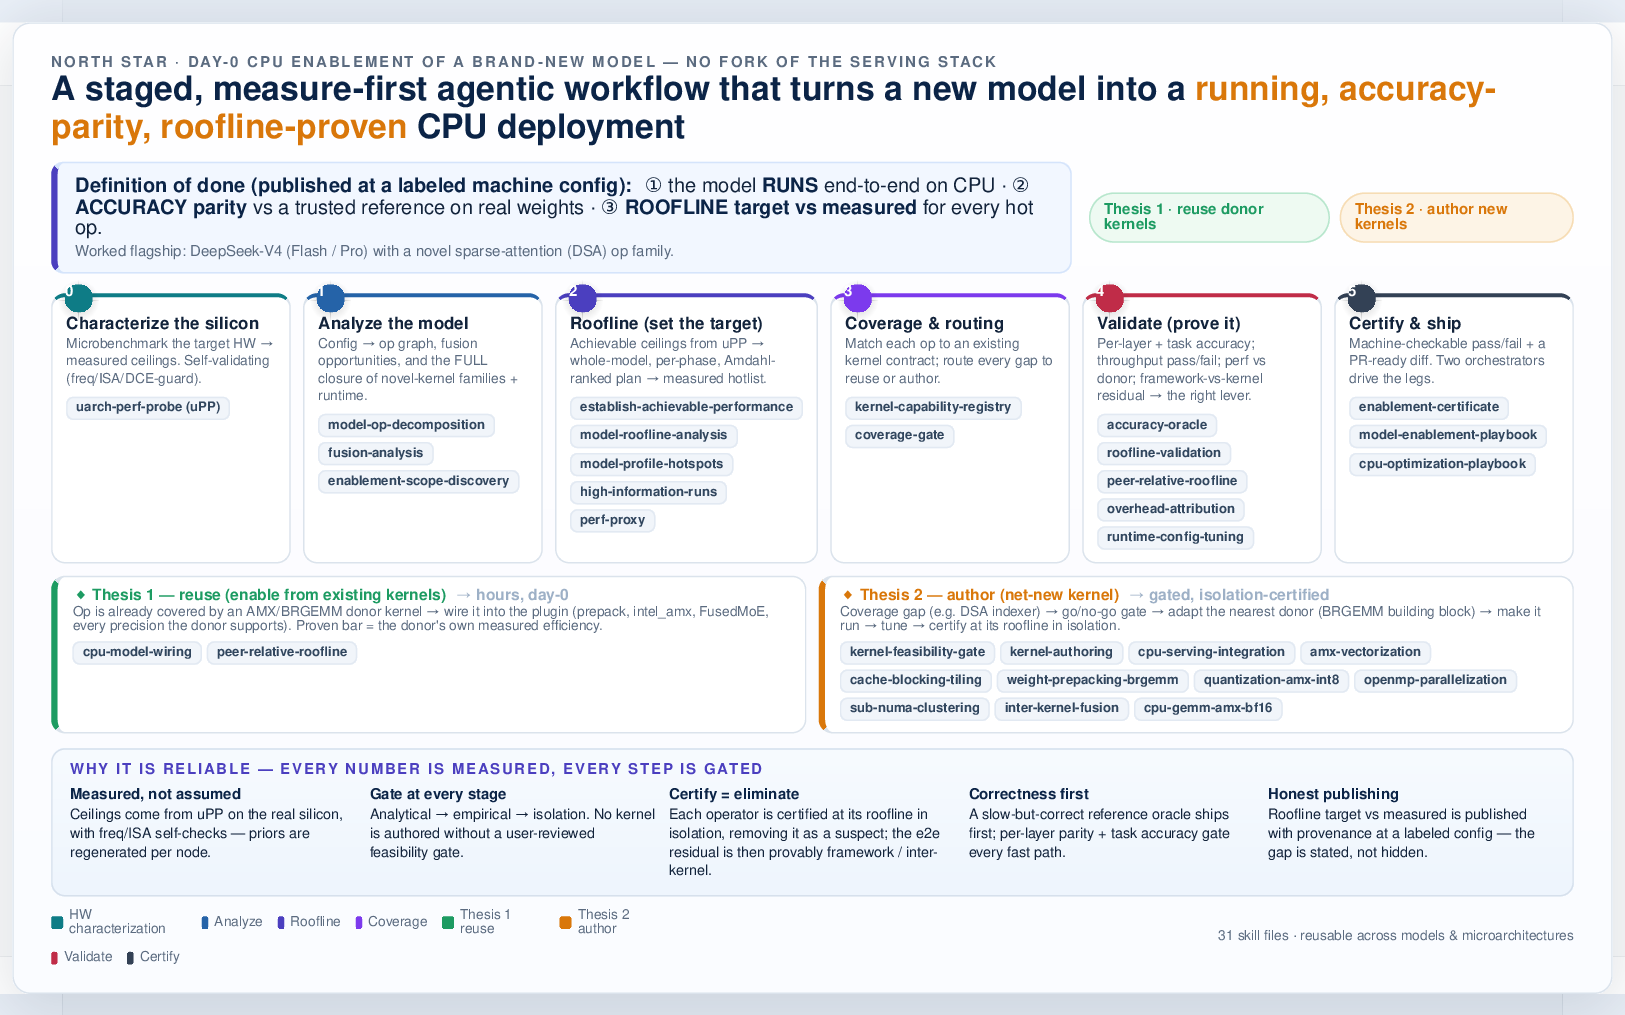
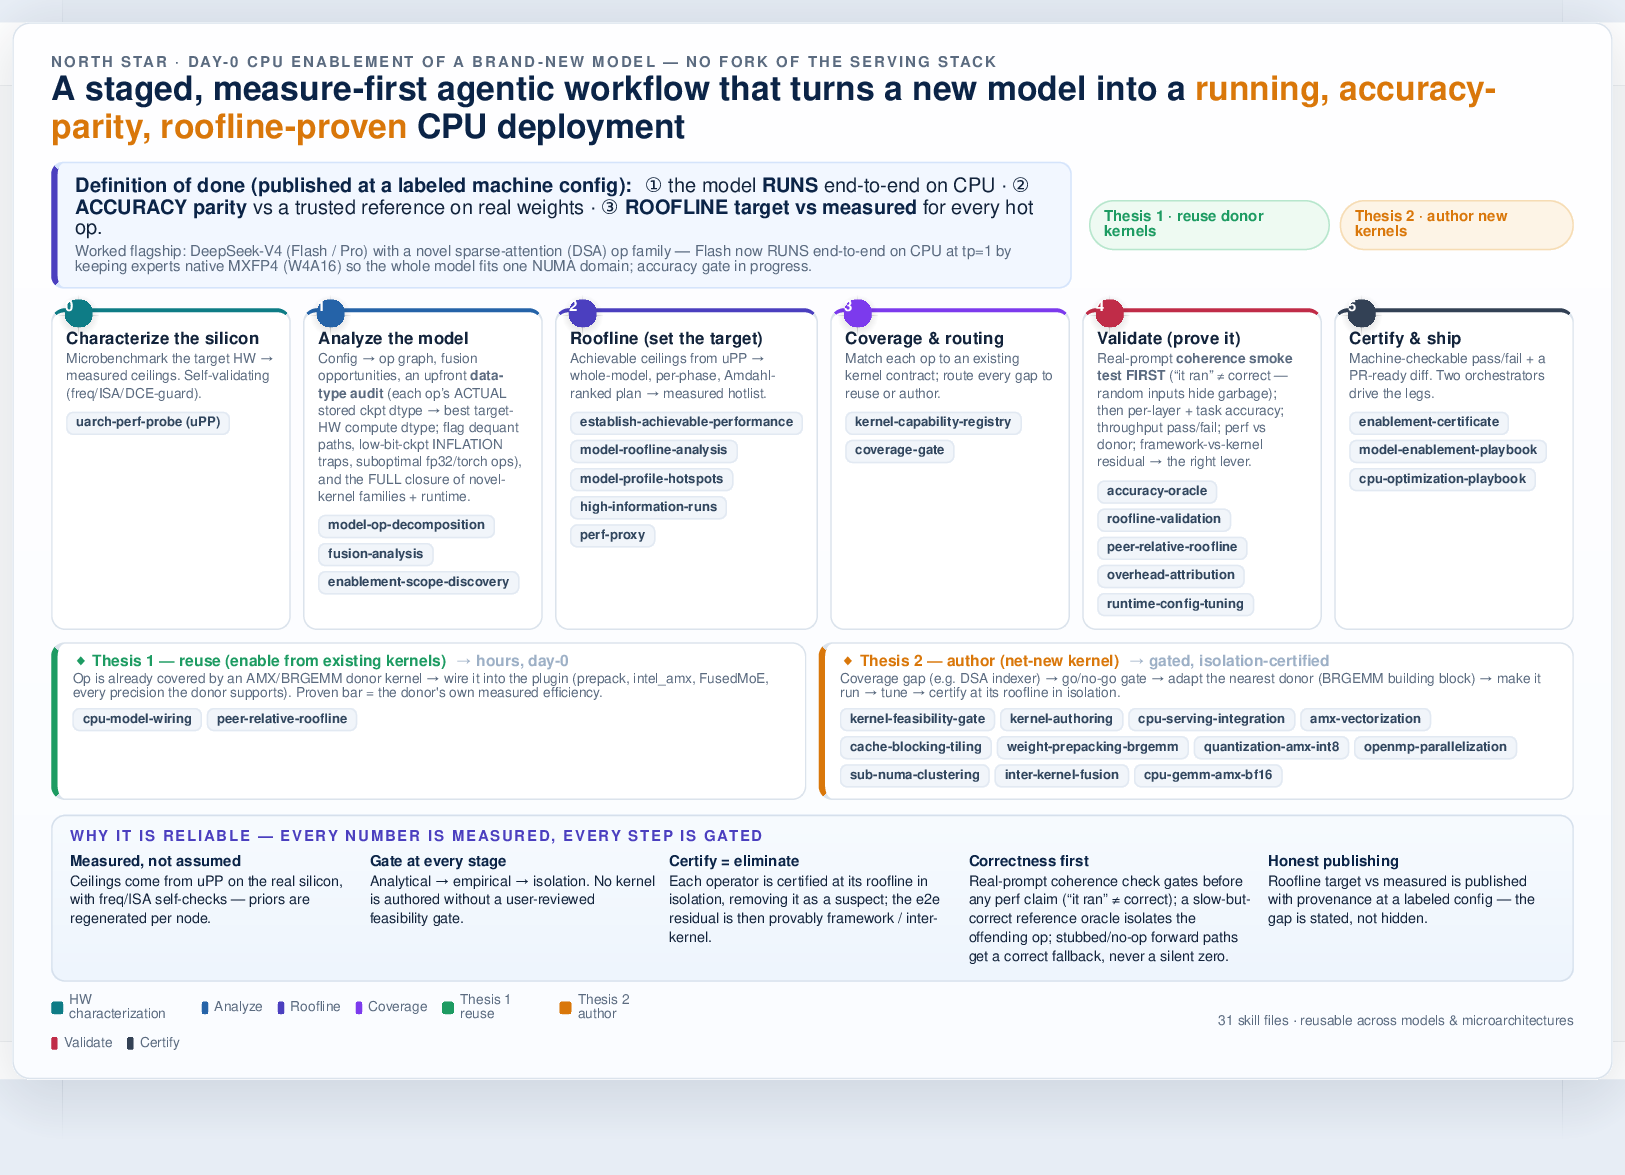
docs: re-render slide PNG with the session learnings (data-type audit, coherence-first validate, DeepSeek-V4-Flash native-MXFP4 tp=1 result); bump inline @page height 812->940 so weasyprint fits the taller content on one page

Changed region(s): [[0.0, 0.0305, 1.0, 0.9773]]

diff --git a/docs/agentic-workflow-slide.html b/docs/agentic-workflow-slide.html
@@ -12,7 +12,7 @@
   }
   *{box-sizing:border-box}
   html,body{margin:0;background:#e7edf5;font-family:-apple-system,BlinkMacSystemFont,"Segoe UI",Roboto,Helvetica,Arial,sans-serif;color:var(--ink)}
-  @page{size:1300px 812px;margin:0}
+  @page{size:1300px 940px;margin:0}
   @media print{body{background:#fff}.slide{margin:0;border:none;border-radius:0;box-shadow:none;min-height:812px}}
   .slide{width:1280px;min-height:720px;margin:18px auto;background:linear-gradient(180deg,#ffffff,#fafcff);
     border:1px solid var(--line);border-radius:14px;box-shadow:0 10px 40px rgba(16,35,59,.14);padding:26px 30px 22px;position:relative}
